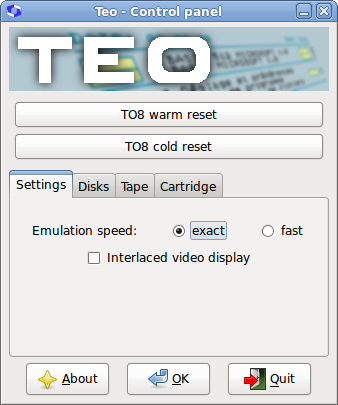
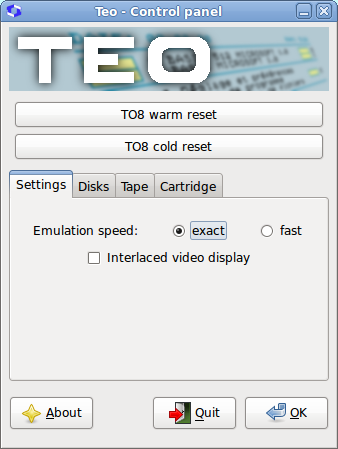
Updating Teo doc for Linux

diff --git a/doc/teo_linux_en.htm b/doc/teo_linux_en.htm
@@ -31,7 +31,7 @@ Copyright &copy; 1997-2012 Gilles F&eacute;tis, Eric Botcazou, Alexandre Pukall,
 <A HREF="#Panneau_de_controle">11. Control panel</A><BR>
 <A HREF="#Acces_direct">12. Direct access to floppy drives</A><BR>
 <A HREF="#Commandes_diverses">13. Miscellaneous commands</A><BR>
-<A HREF="#Desinstallation">14. Deinstallation</A><BR>
+<A HREF="#Desinstallation">14. Uninstallation</A><BR>
 <A HREF="#Limitations_et_bugs">15. Limitations and bugs</A><BR>
 <A HREF="#Remerciements">16. Thanks</A><BR>
 <BR>
@@ -42,7 +42,7 @@ Copyright &copy; 1997-2012 Gilles F&eacute;tis, Eric Botcazou, Alexandre Pukall,
 
 
 <H2><A NAME="Installation"></A>2. Installation</H2>
-<P>The required configuration to run the emulator is the standard configuration of recent Linux distributions. Version 1.2 of the GTK+ toolkit is required and might require a system update (RedHat 5.x, SuSE 5.x). It is available <A HREF="http://www.gtk.org">here</A>.</P>
+<P>The required configuration to run the emulator is the standard configuration of recent Linux distributions. Version 2.12 and later of the GTK+ toolkit is required and might require a system update (RedHat 5.x, SuSE 5.x). It is available <A HREF="http://www.gtk.org">here</A>.</P>
 
 <P>You can install the emulator in two ways:</P>
 <UL>
@@ -56,7 +56,7 @@ Copyright &copy; 1997-2012 Gilles F&eacute;tis, Eric Botcazou, Alexandre Pukall,
 <TABLE BORDER="0" SUMMARY="options">
 <TR><TD><KBD>[-help]</KBD></TD><TD>Prints on-line help</TD></TR>
 <TR><TD><KBD>[-m file.m7]</KBD></TD><TD>use file.m7 as ROM cartridge</TD></TR>
-<TR><TD><KBD>[-fast]</KBD></TD><TD>run the emulator at full-speed</TD></TR>
+<TR><TD><KBD>[-fast]</KBD></TD><TD>run the emulator at fast-speed</TD></TR>
 <TR><TD><KBD>[-nosound]</KBD></TD><TD>disable the emulation of sound</TD></TR>
 <TR><TD><KBD>[-geometry +x+y]</KBD></TD><TD>specify the window position</TD></TR>
 <TR><TD><KBD>[-noshm]</KBD></TD><TD>disable the use of the MIT-SHM extension</TD></TR>
@@ -89,7 +89,7 @@ Copyright &copy; 1997-2012 Gilles F&eacute;tis, Eric Botcazou, Alexandre Pukall,
 <H2><A NAME="Souris"></A>7. Mouse</H2>
 <P>On a real TO8, the mouse is connected to joystick port #0. Hence both devices cannot be used at the same time.</P>
 <P>On the emulated TO8, both devices can work together and the mouse is the default pointing device at boot time.</P>
-<P>Both buttons of the mouse are mapped onto the left and right button a the PC mouse.<</P>
+<P>Both buttons of the mouse are mapped onto the left and right button of the PC mouse.</P>
 
 
 <H2><A NAME="Crayon_optique"></A>8. Lightpen</H2>
@@ -98,12 +98,12 @@ Copyright &copy; 1997-2012 Gilles F&eacute;tis, Eric Botcazou, Alexandre Pukall,
 <LI>The light-pen is, for a thomson-fanatic, an untouchable feature that directly comes from the sacred era where TO7 and others were the glory of French computers.</LI>
 <LI>More usefully, many programs written for the TO7 or TO7-70 that use the light-pen do not display a cursor indicating the position of the pen on the screen. Therefore they are unusable with a mouse.</LI>
 </UL>
-<P>The light-pen can be selected in the "Settings" menu of the TO8. It is emulated using the PC mouse, the left mouse button being the light-pen button. The right mouse button toggles the display of the light-pen cursor on and off.</P>
+<P>The light-pen can be selected in the "R&eacute;glage et pr&eacute;f&eacute;rences" menu of the TO8. It is emulated using the PC mouse, the left mouse button being the light-pen button. The right mouse button toggles the display of the light-pen cursor on and off.</P>
 
 
 <H2><A NAME="Generateur_sonore"></A>9. Sound generator</H2>
 <P>The TO8 sound is emulated using the sound-card of the PC. Both the 1-bit (TO7) and the 6-bits (Music and games interface) generators are emulated.</P>
-<P>Teo uses the default sound device (via Open Sound System).</P>
+<P>Teo uses the default sound device (via ALSA).</P>
 
 
 <H2><A NAME="Supports_amovibles"></A>10. Removable read/write media</H2>
@@ -113,7 +113,7 @@ Copyright &copy; 1997-2012 Gilles F&eacute;tis, Eric Botcazou, Alexandre Pukall,
 
 <H2><A NAME="Panneau_de_controle"></A>11. Control panel</H2>
 <P>Pressing the [ESC] key on the PC halts the emulation and opens the control panel.</P>
-<CENTER><IMG SRC="images/teo_x1en.png" WIDTH="338" HEIGHT="405" ALT="Control panel"></CENTER>
+<CENTER><IMG SRC="images/teo_x1en.png" WIDTH="338" HEIGHT="449" ALT="Control panel"></CENTER>
 <P>This menu allows communicating with the emulator and gives access to peripheral devices of the TO8 (cartridge slot, tape recorder, and floppy drives).</P>
 <P>Use the first two buttons with care:</P>
 <UL>
@@ -125,33 +125,33 @@ Copyright &copy; 1997-2012 Gilles F&eacute;tis, Eric Botcazou, Alexandre Pukall,
 
 <H3>Settings</H3>
 
-<CENTER><IMG SRC="images/teo_x2en.png" WIDTH="338" HEIGHT="195" ALT="Settings"></CENTER>
+<CENTER><IMG SRC="images/teo_x2en.png" WIDTH="338" HEIGHT="221" ALT="Settings"></CENTER>
 <P>The speed option allow tuning the speed of the emulation:</P>
 <UL>
 <LI>Accurate speed: Fixes the speed of the MC6809E to 1Mhz exactly. This is the normal value which is the mode to use when playing games or sounds.</LI>
-<LI>Fast speed: Emulates the MC6809E at the maximum speed that the PC allows (for instance, a Pentium 200 gives a MC6809E running at 10Mhz). This can be used for utility tools, or to have access to a boosted TO8 which is valuable. However the sound is then deactivated.</LI>
+<LI>Fast speed: Emulates the MC6809E at fast speed. This can be used for utility tools, or to have access to a boosted TO8 which is valuable. However the sound is then deactivated.</LI>
 </UL>
 <P>The interlaced mode emulate CRTs by displaying only half the lines for each frame (even lines, then odd lines). This reduces the flickering effect that happens when rapid screen changes occur (see for instance the TruC demos by PULS).</P>
 
 
 <H3>Disks</H3>
-<CENTER><IMG SRC="images/teo_x5en.png" WIDTH="338" HEIGHT="193" ALT="Lecteurs de disquettes"></CENTER>
-<P>This menu allows choosing a SAP file (extension .sap) and uses it as a read/write floppy disk by the emulator (chooser button). These files are images of physical Thomson disks which are created by a specific utility tool called SAP. They must reside on the hard drive of the PC, preferably in the <KBD>disks</KBD> sub-folder in the emulator directory.</P>
+<CENTER><IMG SRC="images/teo_x5en.png" WIDTH="338" HEIGHT="219" ALT="Lecteurs de disquettes"></CENTER>
+<P>This menu allows choosing a SAP file (extension .sap) and uses it as a read/write floppy disk by the emulator (open button). These files are images of physical Thomson disks which are created by a specific utility tool called SAP. They must reside on the hard drive of the PC, preferably in the <KBD>disks</KBD> sub-folder in the emulator directory.</P>
 <P>Drives 0: and 1: map to the two faces of the first physical floppy drive of a real TO8. Drives 2: and 3: will be mapped to both faces of the second drive.</P>
 <P>It is possible to write-protect any of these drives independently (field "prot.").</P>
-<P>The button with the "file" icon switches onto "disk" icon when you want to <A HREF="#Acces_direct">directly access</A> to a physical 3"5 floppy disk (720kb, TO8 format) inserted in the A: floppy drive of the PC. Just click on "disk" button to go back to "file" mode.</P>
+<P>Select "(Direct Access)" when you want to <A HREF="#Acces_direct">directly access</A> to a physical 3"5 floppy disk (720kb, TO8 format) inserted in the A: floppy drive of the PC. Just open a virtual disk, or select one in the combobox, or select "(None)" to go back to virtual access.</P>
 <P>Please note that a green led will appear in the right upper side of the screen when a disk access occurs.</P>
 
 
 <H3>Tape recorder</H3>
-<CENTER><IMG SRC="images/teo_x4en.png" WIDTH="338" HEIGHT="196" ALT="Lecteur de cassettes"></CENTER>
+<CENTER><IMG SRC="images/teo_x4en.png" WIDTH="338" HEIGHT="221" ALT="Lecteur de cassettes"></CENTER>
 <P>Here you can, not only select a K7 file (extension .k7) which will act as a tape, but also choose to protect it against write access ("prot." field). You can also change the position on the tape (numerical field "Counter" and "+" or "-" buttons), and even rewind it completely (button "Rewind tape"). Be careful: any write-access change will automatically rewind the tape.</P>
 <P>Here again, you are advised to put all your K7 files under the <KBD>k7</KBD> sub-folder in the emulator directory to ease file selection.</P>
 
 
 <H3>Cartridge slot</H3>
-<CENTER><IMG SRC="images/teo_x3en.png" WIDTH="338" HEIGHT="196" ALT="Lecteur de cartouches"></CENTER>
-<P>This menu allows choosing a Memo7 file (extension .m7) and loads it as a cartridge (button "browse..."). The label of the cartridge appears in the left zone. Please note that Teo will then do a cold-reset of the TO8 in order for the cartridge to appear in the boot screen of the TO8.</P>
+<CENTER><IMG SRC="images/teo_x3en.png" WIDTH="338" HEIGHT="220" ALT="Lecteur de cartouches"></CENTER>
+<P>This menu allows choosing a Memo7 file (extension .m7) and loads it as a cartridge (open file button). The label of the cartridge appears in the combobox. Please note that Teo will then do a cold-reset of the TO8 in order for the cartridge to appear in the boot screen of the TO8.</P>
 <P>To ease the selection of files, you are advised to put all Memo7 files under the <KBD>memo7</KBD> sub-folder.</P>
 
 
@@ -161,7 +161,7 @@ Copyright &copy; 1997-2012 Gilles F&eacute;tis, Eric Botcazou, Alexandre Pukall,
 <P>The normal way to deal with disks with Teo is, just like with other devices, "virtualization": floppy disks are represented by SAP files (extension .sap) and all access to the floppy (reading or writing) is just done on these files. This leads to a great flexibility and protection of the original TO8 floppy disks.</P>
 <P>However, since the 3"5 floppy-drive standard remained the same since the very first TO8, it is possible for any PC to physically read and write TO8 3"5 floppy disks. The floppy menu form the <A HREF="#Panneau_de_controle">control panel</A> allows TEO to directly access side #0 of any available 3"5 floppy drives present on the PC.</P>
 <P>Without explicit choice from the user, in order to protect the original Thomson floppies, only direct <EM>reading</EM> is enabled: the write-protection field of a direct-access floppy drive remains active. It is still possible to authorize direct writes (and therefore direct formatting of 3"5 - 720Kb thomson floppy disks) by starting Teo with the option <KBD>--enable-direct-write</KBD> (this option is intentionally not shown in the on-line help). It is <B>strongly recommended</B> not to use direct writes on original Thomson floppies: the TO format is not a native PC format, and remaining incompatibilities could lead to <B>serious</B> damages on data integrity. Use direct writes only on <B>copies</B>, possibly made using Teo itself.</P>
-<P>Please note that the floppy format used by Thomson is 3"5 Double Sided Double Density (720 KB - 2DD), but it is possible to use a 3"5 Double Sided High Density  disk (1.44 MB - 2HD) by concealing a simple piece of tape on the right notch of the disk.<</P>
+<P>Please note that the floppy format used by Thomson is 3"5 Double Sided Double Density (720 KB - 2DD), but it is possible to use a 3"5 Double Sided High Density  disk (1.44 MB - 2HD) by concealing a simple piece of tape on the right hole (high-capacity hole) of the disk.<</P>
 
 <H3>Activating disk direct access on new Linux systems</H3>
 
@@ -203,7 +203,7 @@ Copyright &copy; 1997-2012 Gilles F&eacute;tis, Eric Botcazou, Alexandre Pukall,
 <LI>[F10] displays Teo's debugger.</LI>
 </UL>
 
-<H2><A NAME="Desinstallation"></A>14. Deinstallation</H2>
+<H2><A NAME="Desinstallation"></A>14. Uninstallation</H2>
 <P>If installation has been made with <KBD>tar.gz</KBD> packages, just remove the root folder <KBD>teo</KBD>.</P>
 <P>If installation has been made with <KBD>.deb</KBD> packages, execute <CODE>sudo apt-get remove --purge teo</CODE> in a Terminal. The menu shortcut <KBD>Applications/Games/Teo emulator</KBD> might not disappear. Then execute <CODE>rm ~/.local/share/applications/teo.desktop</CODE>. And to clean everything, execute <CODE>rm -r ~/.teo</CODE>, which is the folder that contains <KBD>teo.cfg</KBD> and  <KBD>autosave.img</KBD> files.</P>
 

diff --git a/doc/teo_linux.htm b/doc/teo_linux.htm
@@ -41,7 +41,7 @@ Copyright &copy; 1997-2012 Gilles F&eacute;tis, Eric Botcazou, Alexandre Pukall,
 <P>Teo ne r&eacute;alise lui-m&ecirc;me que l'&eacute;mulation <EM>mat&eacute;rielle</EM> du TO8, &agrave; savoir celle du microprocesseur Motorola MC6809E, de la carte m&eacute;moire, de la carte vid&eacute;o et des p&eacute;riph&eacute;riques suivants: souris, crayon optique, manettes de jeux, lecteur de cassettes et lecteurs de disquettes.</P>
 
 <H2><A NAME="Installation"></A>2. Installation</H2>
-<P>La configuration n&eacute;cessaire pour faire tourner l'&eacute;mulateur est la configuration standard des distributions r&eacute;centes; seule la pr&eacute;sence obligatoire de la version 1.2 du toolkit GTK+ peut n&eacute;cessiter une mise &agrave; jour du syst&egrave;me (RedHat 5.x, SuSE 5.x), disponible <A HREF="http://www.gtk.org">ici</A>.</P>
+<P>La configuration n&eacute;cessaire pour faire tourner l'&eacute;mulateur est la configuration standard des distributions r&eacute;centes; seule la pr&eacute;sence obligatoire de la version 2.12 ou sup&eacute;rieure du toolkit GTK+ peut n&eacute;cessiter une mise &agrave; jour du syst&egrave;me (RedHat 5.x, SuSE 5.x), disponible <A HREF="http://www.gtk.org">ici</A>.</P>
 
 <P>Vous pouvez installer l'&eacute;mulateur de deux fa&ccedil;ons:</P>
 <UL>
@@ -55,7 +55,7 @@ Copyright &copy; 1997-2012 Gilles F&eacute;tis, Eric Botcazou, Alexandre Pukall,
 <TABLE BORDER="0" SUMMARY="options">
 <TR><TD><KBD>[-help]</KBD></TD><TD>affiche l'aide en ligne</TD></TR>
 <TR><TD><KBD>[-m file.m7]</KBD></TD><TD>place la cartouche file.m7 dans le lecteur</TD></TR>
-<TR><TD><KBD>[-fast]</KBD></TD><TD>active la pleine vitesse de l'&eacute;mulateur</TD></TR>
+<TR><TD><KBD>[-fast]</KBD></TD><TD>active la vitesse rapide de l'&eacute;mulateur</TD></TR>
 <TR><TD><KBD>[-nosound]</KBD></TD><TD>supprime le son de l'&eacute;mulateur</TD></TR>
 <TR><TD><KBD>[-geometry +x+y]</KBD></TD><TD>sp&eacute;cifie la position de la fen&ecirc;tre</TD></TR>
 <TR><TD><KBD>[-noshm]</KBD></TD><TD>d&eacute;sactive l'utilisation de l'extension MIT-SHM</TD></TR>
@@ -97,7 +97,7 @@ Copyright &copy; 1997-2012 Gilles F&eacute;tis, Eric Botcazou, Alexandre Pukall,
 
 <H2><A NAME="Generateur_sonore"></A>9. G&eacute;n&eacute;rateur sonore</H2>
 <P>Le son du TO8 est &eacute;mul&eacute; via la carte son du PC. Les deux g&eacute;n&eacute;rateurs sonores 1-bit compatible TO7 et 6-bit compatible interface Musique et Jeux sont &eacute;mul&eacute;s.</P>
-<P>Teo utilise le p&eacute;riph&eacute;rique sonore par d&eacute;faut du syst&egrave;me (via Open Sound System).</P>
+<P>Teo utilise le p&eacute;riph&eacute;rique sonore par d&eacute;faut du syst&egrave;me (via ALSA).</P>
 
 <H2><A NAME="Supports_amovibles"></A>10. Supports amovibles de lecture/&eacute;criture</H2>
 <P>Teo peut manipuler trois types de support amovible de lecture et/ou &eacute;criture: les cartouches ROM, les cassettes analogiques et les disquettes 3"5 Thomson. Chaque support est virtualis&eacute; par le biais de fichiers au format M&eacute;mo7 (extension .m7), K7 (extension .k7) et SAP (extension .sap) respectivement.</P>
@@ -106,7 +106,7 @@ Copyright &copy; 1997-2012 Gilles F&eacute;tis, Eric Botcazou, Alexandre Pukall,
 <H2><A NAME="Panneau_de_controle"></A>11. Panneau de contr&ocirc;le</H2>
 <P>L'appui sur la touche [ESC] du clavier du PC suspend l'&eacute;mulation et ouvre le Panneau de contr&ocirc;le.</P>
 
-<CENTER><IMG SRC="images/teo_x1fr.png" WIDTH="338" HEIGHT="405" ALT="Panneau de contr&ocirc;le"></CENTER>
+<CENTER><IMG SRC="images/teo_x1fr.png" WIDTH="338" HEIGHT="449" ALT="Panneau de contr&ocirc;le"></CENTER>
 
 <P>Ce menu permet de communiquer avec l'&eacute;mulateur et d'acc&eacute;der aux p&eacute;riph&eacute;riques du TO8 (lecteur de cartouches, lecteur de cassettes et lecteurs de disquettes).</P>
 
@@ -120,32 +120,31 @@ Copyright &copy; 1997-2012 Gilles F&eacute;tis, Eric Botcazou, Alexandre Pukall,
 
 <H3>R&eacute;glages</H3>
 
-<CENTER><IMG SRC="images/teo_x2fr.png" WIDTH="338" HEIGHT="196" ALT="R&eacute;glages"></CENTER>
+<CENTER><IMG SRC="images/teo_x2fr.png" WIDTH="338" HEIGHT="217" ALT="R&eacute;glages"></CENTER>
 
 <P>L'option vitesse permet de r&eacute;gler la vitesse de l'&eacute;mulation:</P>
 <UL>
 <LI>Vitesse exacte: &eacute;mulation du MC6809E &agrave; 1Mhz strictement, c'est le choix normal, le seul utilisable pour les jeux et pour l'&eacute;mulation sonore.</LI>
-<LI>Vitesse maximale: &eacute;mulation du MC6809E &agrave; la vitesse maximale atteinte par le PC (&agrave; titre d'exemple un P200 &eacute;mule un MC6809E &agrave; 10Mhz). C'est utilisable pour les utilitaires, c'est m&ecirc;me assez agr&eacute;able d'avoir un TO8 rapide, mais le son est alors d&eacute;sactiv&eacute;.</LI>
+<LI>Vitesse rapide: &eacute;mulation du MC6809E &agrave; vitesse rapide. C'est utilisable pour les utilitaires, c'est m&ecirc;me assez agr&eacute;able d'avoir un TO8 rapide, mais le son est alors d&eacute;sactiv&eacute;.</LI>
 </UL>
 <P>Le mode vid&eacute;o entrelac&eacute; simule les &eacute;crans cathodiques en affichant uniquement la moitit&eacute; des lignes &agrave; chaque trame (lignes paires puis impaires), r&eacute;duisant ainsi le scintillement lors des changements rapides d'images (voir par exemple les d&eacute;mos TruC de PULS).</P>
 
 <H3>Lecteurs de disquettes</H3>
-<CENTER><IMG SRC="images/teo_x5fr.png" WIDTH="338" HEIGHT="197" ALT="Lecteurs de disquettes"></CENTER>
+<CENTER><IMG SRC="images/teo_x5fr.png" WIDTH="338" HEIGHT="222" ALT="Lecteurs de disquettes"></CENTER>
 <P>Ce menu permet de s&eacute;lectionner les fichiers au format SAP (extension .sap) qui seront utilis&eacute;s comme disquettes en lecture/&eacute;criture par l'&eacute;mulateur. Ces fichiers sont des images des disquettes physiques Thomson, r&eacute;alis&eacute;es par un utilitaire sp&eacute;cifiques appel&eacute; SAP, et doivent &ecirc;tre stock&eacute;s sur le disque dur du PC, de pr&eacute;f&eacute;rence dans un sous-r&eacute;pertoire <KBD>disks</KBD> du r&eacute;pertoire de l'&eacute;mulateur.</P>
-<P>Les lecteurs 0: et 1: correspondent aux deux faces du premier lecteur physique de disquettes d'un v&eacute;ritable TO8; les lecteur 2: et 3: correspondent quant &agrave; eux aux deux faces du second lecteur.</P>
+<P>Les lecteurs 0: et 1: correspondent aux deux faces du premier lecteur physique de disquettes d'un v&eacute;ritable TO8; les lecteurs 2: et 3: correspondent quant &agrave; eux aux deux faces du second lecteur.</P>
 <P>Il est possible d'activer pour chacun des lecteurs, ind&eacute;pendamment des autres, la protection d'acc&egrave;s en &eacute;criture de la disquette (case "prot.").</P>
-<P>Le bouton avec l'ic&ocirc;ne "fichier" se transforme en ic&ocirc;ne "disque" si vous voulez <A HREF="#Acces_direct">acc&eacute;der directement</A> &agrave; une disquette physique 3"5 - 720 ko au format TO8 introduite dans le lecteur A: du PC. Il suffira ensuite de cliquer sur le bouton avec l'ic&ocirc;ne "disque" pour revenir au mode "fichier".</P>
+<P>S&eacute;lectionnez l'entr&eacute;e "(Acc&egrave;s direct)" de la bo&icirc;te combin&eacute;e si vous voulez <A HREF="#Acces_direct">acc&eacute;der directement</A> &agrave; une disquette physique 3"5 - 720 ko au format TO8 introduite dans le lecteur A: du PC. Il suffira ensuite d'ouvrir ou de s&eacute;lectionner un fichier SAP ou "(Aucun)" pour sortir du mode acc&egrave;s direct.</P>
 <P>A noter qu'une led verte s'allume en haut &agrave; droite de l'&eacute;cran lorsqu'un acc&egrave;s disque est en cours.</P>
 
 <H3>Lecteur de cassettes</H3>
-<CENTER><IMG SRC="images/teo_x4fr.png" WIDTH="338" HEIGHT="195" ALT="Lecteur de cassettes"></CENTER>
-<P>Vous pouvez ici non seulement s&eacute;lectionner le fichier au format K7 (extension .k7) qui joue le r&ocirc;le de cassette (bouton "...") mais aussi choisir de prot&eacute;ger son acc&egrave;s en &eacute;criture (case "prot.") ou encore modifier
-la position de la bande (champ num&eacute;rique "Compteur" et boutons "+" et "-") ou m&ecirc;me rembobiner la cassette, i.e revenir au d&eacute;but du fichier (bouton "Rembobiner la cassette"). Attention, tout changement de protection d'acc&egrave;s en &eacute;criture provoque automatiquement le rembobinage.</P>
+<CENTER><IMG SRC="images/teo_x4fr.png" WIDTH="338" HEIGHT="221" ALT="Lecteur de cassettes"></CENTER>
+<P>Vous pouvez ici non seulement s&eacute;lectionner le fichier au format K7 (extension .k7) qui joue le r&ocirc;le de cassette (bouton d'ouverture) mais aussi choisir de prot&eacute;ger son acc&egrave;s en &eacute;criture (case "prot.") ou encore modifier la position de la bande (champ num&eacute;rique "Compteur" et boutons "+" et "-") ou m&ecirc;me rembobiner la cassette, i.e revenir au d&eacute;but du fichier (bouton "Rembobiner la cassette"). Attention, tout changement de protection d'acc&egrave;s en &eacute;criture provoque automatiquement le rembobinage.</P>
 <P>L&agrave; encore, il est conseill&eacute; de mettre tous les fichiers K7 dans un m&ecirc;me sous-r&eacute;pertoire <KBD>k7</KBD> du r&eacute;pertoire de l'&eacute;mulateur pour une s&eacute;lection plus ais&eacute;e.</P>
 
 <H3>Lecteur de cartouches</H3>
-<CENTER><IMG SRC="images/teo_x3fr.png" WIDTH="338" HEIGHT="194" ALT="Lecteur de cartouches"></CENTER>
-<P>Ce menu permet de s&eacute;lectionner un fichier au format M&eacute;mo7 (extension .m7) et de le charger comme cartouche (bouton "Parcourir..."). L'intitul&eacute; de la cartouche appara&icirc;t dans la zone de gauche. A noter que Teo effectue alors un red&eacute;marrage &agrave; froid afin que la cartouche soit effectivement prise en compte et apparaisse sur l'&eacute;cran de d&eacute;marrage.</P>
+<CENTER><IMG SRC="images/teo_x3fr.png" WIDTH="338" HEIGHT="221" ALT="Lecteur de cartouches"></CENTER>
+<P>Ce menu permet de s&eacute;lectionner un fichier au format M&eacute;mo7 (extension .m7) et de le charger comme cartouche (bouton d'ouverture). L'intitul&eacute; de la cartouche appara&icirc;t dans la bo&icirc;te combin&eacute;e. A noter que Teo effectue alors un red&eacute;marrage &agrave; froid afin que la cartouche soit effectivement prise en compte et apparaisse sur l'&eacute;cran de d&eacute;marrage.</P>
 <P>Il est conseill&eacute; de mettre tous les fichiers M&eacute;mo7 dans un m&ecirc;me sous-r&eacute;pertoire <KBD>memo7</KBD> du r&eacute;pertoire de l'&eacute;mulateur pour une s&eacute;lection plus ais&eacute;e.</P>
 
 </BLOCKQUOTE>
